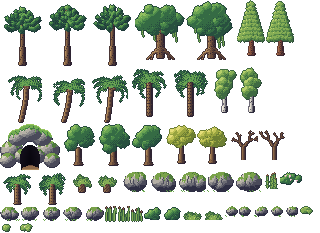
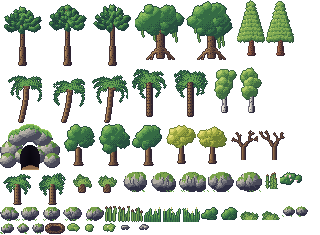
Island undergrowth, rocks and nests from the atlas; the old plant sprites go (handoff 3 D1, D2)
The test area's under-planting now runs island-wide, by terrace: tree ferns, cycads, magnolia,
bushes and fern clumps at the woods' edges (the highland gets cycads, horsetails and ferns, no
flowers); reeds and horsetails by the water; tall grass in drifts over the open lowland and
meadows (new atlas clumps, 3 variants, for stealth later); pebbles by the paths and at cliff tops;
boulders at the foot of the cliffs (the test area's rule could never fire: a tile right under a
cliff is always solid). Rocks in the shallows are atlas boulders with surf round them; the
volcano's ring is atlas boulders and pebbles; the nests are a woven twig atlas sprite. The eggs
stop wobbling under reduced motion. Removed: the runtime jtree, tree, tree2, tfern, palm, fern,
cycad, rock, boulder, stones, tallgrass and nest sprites, the helpers only they used, their baked
shadows (atlas sprites cast the soft shadow at runtime), and TEST/inTest.

diff --git a/js/world.js b/js/world.js
@@ -78,12 +78,9 @@
   function at(x, y) { return x < 0 || y < 0 || x >= MW || y >= MH ? DEEP : map[y][x]; }
   function land(t) { return t === GRASS || t === SAND || t === PATH || t === PAD || t === BRIDGE; }
   function wet(t) { return t === DEEP || t === SHAL || t === POND || t === RIVER; }
-  /* the art test area (handoff 3, D3): the west meadow where the river falls off the highland,
-     and the koi garden, drawn in the new style (art/palette.json, img/atlas/env.png from
-     tools/envart.py). the rest of the island converts once Ammaar approves the look */
-  var TEST = [[13, 18, 41, 47], [57, 39, 81, 57]];
-  function inTest(x, y) { for (var i = 0; i < TEST.length; i++) { var r = TEST[i]; if (x >= r[0] && x <= r[2] && y >= r[1] && y <= r[3]) return true; } return false; }
-  var ENV = {"mpuzzle0":[0,0,44,66,22,64],"mpuzzle1":[45,0,44,66,22,64],"mpuzzle2":[90,0,44,66,22,64],"fig0":[135,0,50,60,25,57],"fig1":[186,0,50,60,25,57],"redwood0":[237,0,28,56,14,54],"redwood1":[266,0,28,56,14,54],"palm0":[0,67,42,56,21,54],"palm1":[43,67,42,56,21,54],"palm2":[86,67,42,56,21,54],"tallfern0":[129,67,40,50,20,48],"tallfern1":[170,67,40,50,20,48],"birch0":[211,67,26,46,13,44],"birch1":[238,67,26,46,13,44],"cavemouth":[0,124,60,46,30,45],"oak0":[61,124,34,42,17,40],"oak1":[96,124,34,42,17,40],"oak2":[131,124,34,42,17,40],"ginkgo0":[166,124,30,40,15,38],"ginkgo1":[197,124,30,40,15,38],"baretree0":[228,124,30,36,15,35],"baretree1":[259,124,30,36,15,35],"tfern0":[0,171,34,34,17,32],"tfern1":[35,171,34,34,17,32],"cycad0":[70,171,24,22,12,20],"cycad1":[95,171,24,22,12,20],"rock2_0":[120,171,28,22,14,20],"rock2_1":[149,171,28,22,14,20],"rock2_2":[178,171,28,22,14,20],"rock2_3":[207,171,28,22,14,20],"rock2_4":[236,171,28,22,14,20],"horsetail0":[265,171,14,18,7,17],"magnolia0":[280,171,22,16,11,15],"rock1_0":[0,206,20,16,10,14],"rock1_1":[21,206,20,16,10,14],"rock1_2":[42,206,20,16,10,14],"rock1_3":[63,206,20,16,10,14],"rock1_4":[84,206,20,16,10,14],"reeds0":[105,206,12,16,6,15],"reeds1":[118,206,12,16,6,15],"reeds2":[131,206,12,16,6,15],"bush0":[144,206,18,14,9,13],"bush1":[163,206,18,14,9,13],"fern0":[182,206,20,14,10,13],"fern1":[203,206,20,14,10,13],"rock0_0":[224,206,14,12,7,10],"rock0_1":[239,206,14,12,7,10],"rock0_2":[254,206,14,12,7,10],"rock0_3":[269,206,14,12,7,10],"rock0_4":[284,206,14,12,7,10],"lilies0":[299,206,16,10,8,9],"lilies1":[0,223,16,10,8,9],"lilies2":[17,223,16,10,8,9]};
+  /* the art (handoff 3, D1): the master palette is art/palette.json (PAL below copies it); the
+     environment sprites are baked by tools/envart.py into img/atlas/env.png, their frames in ENV */
+  var ENV = {"mpuzzle0":[0,0,44,66,22,64],"mpuzzle1":[45,0,44,66,22,64],"mpuzzle2":[90,0,44,66,22,64],"fig0":[135,0,50,60,25,57],"fig1":[186,0,50,60,25,57],"redwood0":[237,0,28,56,14,54],"redwood1":[266,0,28,56,14,54],"palm0":[0,67,42,56,21,54],"palm1":[43,67,42,56,21,54],"palm2":[86,67,42,56,21,54],"tallfern0":[129,67,40,50,20,48],"tallfern1":[170,67,40,50,20,48],"birch0":[211,67,26,46,13,44],"birch1":[238,67,26,46,13,44],"cavemouth":[0,124,60,46,30,45],"oak0":[61,124,34,42,17,40],"oak1":[96,124,34,42,17,40],"oak2":[131,124,34,42,17,40],"ginkgo0":[166,124,30,40,15,38],"ginkgo1":[197,124,30,40,15,38],"baretree0":[228,124,30,36,15,35],"baretree1":[259,124,30,36,15,35],"tfern0":[0,171,34,34,17,32],"tfern1":[35,171,34,34,17,32],"cycad0":[70,171,24,22,12,20],"cycad1":[95,171,24,22,12,20],"rock2_0":[120,171,28,22,14,20],"rock2_1":[149,171,28,22,14,20],"rock2_2":[178,171,28,22,14,20],"rock2_3":[207,171,28,22,14,20],"rock2_4":[236,171,28,22,14,20],"horsetail0":[265,171,14,18,7,17],"magnolia0":[280,171,22,16,11,15],"rock1_0":[0,206,20,16,10,14],"rock1_1":[21,206,20,16,10,14],"rock1_2":[42,206,20,16,10,14],"rock1_3":[63,206,20,16,10,14],"rock1_4":[84,206,20,16,10,14],"reeds0":[105,206,12,16,6,15],"reeds1":[118,206,12,16,6,15],"reeds2":[131,206,12,16,6,15],"tallgrass0":[144,206,18,16,9,15],"tallgrass1":[163,206,18,16,9,15],"tallgrass2":[182,206,18,16,9,15],"bush0":[201,206,18,14,9,13],"bush1":[220,206,18,14,9,13],"fern0":[239,206,20,14,10,13],"fern1":[260,206,20,14,10,13],"rock0_0":[281,206,14,12,7,10],"rock0_1":[296,206,14,12,7,10],"rock0_2":[0,223,14,12,7,10],"rock0_3":[15,223,14,12,7,10],"rock0_4":[30,223,14,12,7,10],"nest0":[45,223,20,11,10,10],"lilies0":[66,223,16,10,8,9],"lilies1":[83,223,16,10,8,9],"lilies2":[100,223,16,10,8,9],"pebbles0":[117,223,16,8,8,7],"pebbles1":[134,223,16,8,8,7]};
   var PAL = { grass: ["#24463f", "#2e5d44", "#3d7a47", "#55944a", "#73ad51", "#98c65c"], dirt: ["#4a3634", "#6b4c3b", "#8e6a4a", "#b08c5e", "#cdaa74"],
               water: ["#1e3a66", "#23507c", "#2a6892", "#3582a8", "#48a0bc", "#6cbcca"], rim: ["#b4e4e0", "#e2f6ee"], rock: ["#2f2f44", "#4a4a5a", "#6a6a72", "#8e8c8c", "#b5b0a6", "#d6cfbd"],
               moss: ["#35553a", "#4f7a3c", "#79a24a"], wood: ["#2e2433", "#4a3635", "#6b4d3c", "#8e6a48", "#b08a5c"], flower: ["#f2e9e4", "#f5c84b", "#d98bb3", "#9d7ad2"],
@@ -297,14 +294,17 @@
   }
   // under the trees and along the edges: tree ferns, cycads, bushes, magnolia, fern clumps; horsetails
   // and reeds by the water; boulders at the foot of the cliffs and pebbles by the paths
-  function testUnder(x, y, edge, inF, h2) {
-    var wetNear = nearWater(x, y, 1), p = { tx: x, ty: y, flip: hash(y, x) < 0.5, ox: jit(x, y, 3), oy: jit(x, y, 7) / 3 };
+  function plantUnder(x, y, edge, inF, h2) {
+    var wetNear = nearWater(x, y, 1), tr = tier(x + 0.5, y + 0.5), p = { tx: x, ty: y, flip: hash(y, x) < 0.5, ox: jit(x, y, 3), oy: jit(x, y, 7) / 3 };
     var drift = fbm(x * 1.1 + 70, y * 1.1 + 20);                    // plants gather in drifts, not a scatter
-    if (lvl(x, y - 1) > lvl(x, y) && h2 < 0.45) { p.kind = epick("rock2_", 5, h2); p.oy = 2; solid[k(x, y)] = 1; }       // boulders under the cliffs
+    if (lvl(x, y - 2) > lvl(x, y) && lvl(x, y - 1) === lvl(x, y) && h2 < 0.22) { p.kind = epick("rock2_", 5, h2); solid[k(x, y)] = 1; }   // boulders at the foot of the cliffs
     else if (wetNear && h2 < 0.2) p.kind = drift > 0.12 ? epick("reeds", 3, h2) : h2 < 0.1 ? "e:horsetail0" : undefined;
-    else if ((edge || inF) && h2 < 0.34) p.kind = h2 < 0.08 ? epick("tfern", 2, h2) : h2 < 0.14 ? epick("cycad", 2, h2) : h2 < 0.2 ? "e:magnolia0" : h2 < 0.27 ? epick("bush", 2, h2) : epick("fern", 2, h2);
+    else if ((edge || inF) && h2 < 0.34) p.kind = tr === 2 ? (h2 < 0.1 ? epick("cycad", 2, h2) : h2 < 0.18 ? "e:horsetail0" : epick("fern", 2, h2))    // the highland: cooler, no flowers
+      : h2 < 0.08 ? epick("tfern", 2, h2) : h2 < 0.14 ? epick("cycad", 2, h2) : h2 < 0.2 && tr === 1 ? "e:magnolia0" : h2 < 0.27 ? epick("bush", 2, h2) : epick("fern", 2, h2);
+    else if (!inF && tr < 2 && fbm(x * 2.3 + 40, y * 2.3) > 0.25 && h2 < 0.36) { p.kind = epick("tallgrass", 3, h2); p.oy = jit(x, y, 6) / 2; }   // tall grass in drifts across the open ground
     else if (drift > 0.3 && h2 < 0.3) p.kind = epick("fern", 2, h2);
-    else if (near(x, y, 1, function (a2, b2) { return at(a2, b2) === PATH; }) && h2 < 0.12) p.kind = epick("rock0_", 5, h2);
+    else if (near(x, y, 1, function (a2, b2) { return at(a2, b2) === PATH; }) && h2 < 0.12) p.kind = h2 < 0.06 ? epick("pebbles", 2, h2) : epick("rock0_", 5, h2);
+    else if (rim(x, y + 1) && h2 < 0.2) { p.kind = epick("pebbles", 2, h2); p.oy = 0; }
     else if (h2 < 0.05) p.kind = epick("rock1_", 5, h2);
     if (p.kind) props.push(p);
   }
@@ -314,7 +314,7 @@
   for (y = 1; y < MH - 1; y++) for (x = 1; x < MW - 1; x++) {
     var t = map[y][x], h = hash(x, y);
     if (volcD(x * T + 8, y * T + 8) < VOLC.R + 6) {       // boulders ring the volcano's foot
-      if (t === GRASS && volcD(x * T + 8, y * T + 8) > VOLC.R * 0.93 && h < 0.28 && !busy(x, y) && !solid[k(x, y)]) props.push({ kind: h < 0.12 ? "boulder" : "stones", tx: x, ty: y, ox: jit(x, y, 1), oy: jit(x, y, 2) / 2 });
+      if (t === GRASS && volcD(x * T + 8, y * T + 8) > VOLC.R * 0.93 && h < 0.28 && !busy(x, y) && !solid[k(x, y)]) props.push({ kind: h < 0.06 ? epick("rock2_", 5, h) : h < 0.14 ? epick("rock1_", 5, h) : epick("pebbles", 2, h), tx: x, ty: y, flip: h < 0.1, ox: jit(x, y, 1), oy: jit(x, y, 2) / 2 });
       continue;
     }
     if (t === GRASS && !solid[k(x, y)]) {
@@ -328,15 +328,12 @@
       }
       var h2 = hash(x * 7, y * 13);
       if (busy(x, y)) continue;
-      if (inTest(x, y)) { testUnder(x, y, edge, inF, h2); continue; }
-      if ((edge || nearWater(x, y, 1)) && h2 < 0.3) props.push({ kind: h2 < 0.2 ? "fern" : "cycad", tx: x, ty: y, flip: hash(y, x) < 0.5, ox: jit(x, y, 3), oy: 0 });   // pi walks behind these
-      else if (!inF && fbm(x * 2.3 + 40, y * 2.3) > 0.25 && h2 < 0.36) props.push({ kind: "tallgrass", tx: x, ty: y, flip: h2 < 0.18, ox: jit(x, y, 4), oy: jit(x, y, 6) / 2 });
-      else if (rim(x, y + 1) && h2 < 0.25) props.push({ kind: "stones", tx: x, ty: y, ox: jit(x, y, 5), oy: 0 });
+      plantUnder(x, y, edge, inF, h2);
     } else if (t === SAND && h < 0.11 && !solid[k(x, y)]) {
       if (near(x, y, 1, function (a2, b2) { return busy(a2, b2) || solid[k(a2, b2)]; })) continue;
       props.push({ kind: epick("palm", 3, h), tx: x, ty: y, flip: h < 0.055, ox: jit(x, y, 1), oy: 0 }); solid[k(x, y)] = 1;
     } else if (t === SHAL && h < 0.02 && Math.abs(x - DOCKX) > 3) {
-      props.push({ kind: "rock", tx: x, ty: y });
+      props.push({ kind: epick("rock1_", 5, h * 50), tx: x, ty: y, flip: h < 0.01, sea: true });      // rocks in the shallows, the surf round them
     }
   }
   // the cave's surroundings (ref-6): the hillside is solid, two bare trees and some stones beside it
@@ -348,15 +345,15 @@
       if (walkable0(q[1], q[2])) { props.push({ kind: q[0], tx: q[1], ty: q[2], flip: hash(q[1], q[2]) < 0.5, ox: 0, oy: 0 }); if (/tree/.test(q[0])) solid[k(q[1], q[2])] = 1; }
     });
   })();
-  // lily pads on the test area's water: a few clusters on the pond, clear of the middle
+  // lily pads: a few clusters on the pond, clear of the middle
   for (y = 0; y < MH; y++) for (x = 0; x < MW; x++) {
-    if (!inTest(x, y) || map[y][x] !== POND) continue;
+    if (map[y][x] !== POND) continue;
     var pf0 = pondF(x + 0.5, y + 0.5);
     if (pf0 > 0.35 && pf0 < 0.85 && fbm(x * 1.7 + 11, y * 1.7) > 0.05 && hash(x * 5, y * 11) < 0.5) props.push({ kind: epick("lilies", 3, hash(y, x)), tx: x, ty: y, flip: hash(x, y) < 0.5, ox: jit(x, y, 2), oy: 0, flat: true });
   }
   // nests in the meadow, each with a clutch of speckled eggs
   var nests = [[57, 55], [63, 57], [66, 54], [15, 39]].filter(function (n) { return walkable0(n[0], n[1]); }).map(function (n) {
-    solid[k(n[0], n[1])] = 1; var p = { kind: "nest", tx: n[0], ty: n[1], eggs: 2 + ((hash(n[0], n[1]) * 3) | 0) }; props.push(p); return p;
+    solid[k(n[0], n[1])] = 1; var p = { kind: "e:nest0", tx: n[0], ty: n[1], eggs: 2 + ((hash(n[0], n[1]) * 3) | 0) }; props.push(p); return p;
   });
   function walkable0(x, y) { return land(at(x, y)) && at(x, y) !== PATH && !solid[k(x, y)]; }
   [[43, 59], [50, 60], [43, 62], [50, 63], [46, 33], [51, 33], [53, 62], [26, 40]].forEach(function (l) {
@@ -379,7 +376,6 @@
 
   /* ════════ sprites (drawn once into little canvases) ════════ */
   function sprite(w, h, fn) { var c = mkCanvas(); c.width = w; c.height = h; var g = c.getContext("2d"); fn(function (x, y, w, h, col) { g.fillStyle = col; g.fillRect(x, y, w, h); }, g); return c; }
-  function blob(r, cx, cy, rad, col) { for (var j = -rad; j <= rad; j++) { var w = Math.round(Math.sqrt(rad * rad - j * j)); r(cx - w, cy + j, w * 2, 1, col); } }
   var BAYER = [0, 8, 2, 10, 12, 4, 14, 6, 3, 11, 1, 9, 15, 7, 13, 5];
   // pick one of a few tones for a shade in [0,1], ordered-dithered so the bands blend like 16-bit art
   function tone(v, tones, x, y) {
@@ -387,46 +383,6 @@
     return (f - i) > (BAYER[(y & 3) * 4 + (x & 3)] + 0.5) / 16 ? tones[Math.min(tones.length - 1, i + 1)] : tones[i];
   }
   var BARK = ["#3a2616", "#553820", "#6e4a2a", "#8a6038"];
-  function trunk(g, x, y, w, h, flare) {
-    for (var yy = 0; yy < h; yy++) {
-      var ww = w + Math.max(0, yy - h + flare) * 1.3;
-      for (var xx = -ww / 2; xx < ww / 2; xx++) {
-        var v = 0.62 - (xx / ww) * 0.8 + (hash(Math.round(xx) + 90, (yy / 2) | 0) - 0.5) * 0.3;
-        g.fillStyle = tone(v, BARK, Math.round(x + xx), y + yy); g.fillRect(Math.round(x + xx), y + yy, 1, 1);
-      }
-    }
-  }
-  // a canopy is a union of circles; each pixel is lit from the upper left by its own blob's normal
-  function canopy(g, blobs, tones) {
-    var W = 64, H = 64;
-    for (var y = 0; y < H; y++) for (var x = 0; x < W; x++) {
-      var best = null, depth = 0;
-      blobs.forEach(function (b) { var d = b[2] - Math.hypot(x + 0.5 - b[0], y + 0.5 - b[1]); if (d > depth) { depth = d; best = b; } });
-      if (!best) continue;
-      var nx = (x - best[0]) / best[2], ny = (y - best[1]) / best[2];
-      var v = 0.62 - (nx * 0.55 + ny * 0.75) * 0.42 + (hash(x * 3, y * 5) - 0.5) * 0.22 - (depth < 1.5 ? 0.12 : 0);
-      // leafy clumps: every few pixels a darker notch so it doesn't read as a smooth ball
-      if (hash((x / 3) | 0, (y / 3) | 0) < 0.18 && depth > 2) v -= 0.18;
-      g.fillStyle = tone(v, tones, x, y); g.fillRect(x, y, 1, 1);
-    }
-  }
-  // a frond: a curved stem with leaflets hanging off both sides, for palms, tree ferns and ferns
-  function frond(g, x0, y0, ang, len, droop, tones, leaf) {
-    var px = x0, py = y0, dx = Math.cos(ang), dy = Math.sin(ang);
-    for (var i = 0; i < len; i++) {
-      var u = i / len;
-      px += dx; py += dy + droop * u * 1.6;
-      var sh = 0.8 - u * 0.45;
-      g.fillStyle = tone(sh, tones, px | 0, py | 0); g.fillRect(Math.round(px), Math.round(py), 1, 1);
-      if (!leaf || i < 1) continue;
-      var ll = Math.round(leaf * Math.sin(Math.min(1, u * 1.3) * Math.PI) + 0.6);
-      for (var j = 1; j <= ll; j++) {
-        g.fillStyle = tone(sh - 0.08 * j, tones, (px | 0) + j, (py | 0) + j);
-        g.fillRect(Math.round(px - dy * j * 0.7 - 0.3 * j * Math.sign(dx)), Math.round(py + j * 0.8), 1, 1);
-        g.fillRect(Math.round(px + dy * j * 0.7 + 0.2 * j * Math.sign(dx)), Math.round(py + j * 0.55), 1, 1);
-      }
-    }
-  }
   // a 1px outline around everything opaque: the single biggest readability win in pixel art
   function outline(src, col) {
     var w0 = src.width, h0 = src.height, c = mkCanvas(); c.width = w0 + 2; c.height = h0 + 2;
@@ -439,10 +395,6 @@
     g.globalCompositeOperation = "source-over";
     return c;
   }
-  var LEAF = ["#0f2f1a", "#1a4a24", "#28662e", "#3f8a3a", "#62ad50"];
-  var LEAF2 = ["#12301f", "#1d4a2c", "#2d6a38", "#468c46", "#6aae5c"];
-  var FROND = ["#16452a", "#23663a", "#3a8a44", "#63b056", "#8fd06a"];
-  var FERN = ["#12382e", "#1d5440", "#2c7250", "#4a9464", "#74b882"];
   // 3x5 pixel letters for signs
   var GLYPH = { P: ["111", "101", "111", "100", "100"], I: ["111", "010", "010", "010", "111"], S: ["111", "100", "111", "001", "111"], L: ["100", "100", "100", "100", "111"],
                 A: ["010", "101", "111", "101", "101"], N: ["110", "101", "101", "101", "101"], D: ["110", "101", "101", "101", "110"], "'": ["1", "1", "0", "0", "0"], " ": ["00", "00", "00", "00", "00"] };
@@ -450,68 +402,7 @@
   function textW(str) { return str.split("").reduce(function (s, ch) { return s + GLYPH[ch][0].length + 1; }, -1); }
 
   var SPR = {
-    // a giant buttressed jungle tree, hung with vines
-    jtree: sprite(50, 62, function (r, g) {
-      trunk(g, 25, 30, 9, 31, 8);
-      canopy(g, [[25, 22, 16], [11, 26, 10], [39, 26, 10], [17, 12, 11], [33, 11, 11], [25, 32, 9]], LEAF);
-      [[9, 31, 16], [16, 35, 12], [34, 34, 14], [41, 31, 10], [27, 37, 8]].forEach(function (v) {
-        for (var i = 0; i < v[2]; i++) { r(v[0] + Math.round(Math.sin(i * 0.45) * 0.8), v[1] + i, 1, 1, "#2a5e26"); if (i % 3 === 1) r(v[0] + 1, v[1] + i, 1, 1, "#5aa04a"); }
-        r(v[0] - 1, v[1] + v[2], 3, 1, "#3f8a3a");
-      });
-    }),
-    tree: sprite(34, 44, function (r, g) {
-      trunk(g, 17, 26, 5, 17, 4);
-      canopy(g, [[17, 17, 13], [10, 13, 8], [24, 12, 8], [17, 8, 8]], LEAF);
-    }),
-    tree2: sprite(34, 46, function (r, g) {
-      trunk(g, 17, 28, 5, 17, 4);
-      canopy(g, [[17, 22, 11], [17, 12, 11], [9, 17, 7], [25, 17, 7]], LEAF2);
-      [[21, 25], [10, 19], [23, 13], [14, 9], [18, 29]].forEach(function (p) { r(p[0], p[1], 2, 2, "#e0782f"); r(p[0], p[1], 1, 1, "#ffb060"); });   // fruit
-    }),
-    // a tree fern: a thin shaggy trunk and a crown of arching fronds
-    tfern: sprite(40, 44, function (r, g) {
-      for (var yy = 14; yy < 43; yy++) { var cx = 20 + Math.round(Math.sin(yy / 9) * 1.2); r(cx - 1, yy, 3, 1, yy % 3 ? "#5a3a1e" : "#7a5230"); if (yy % 4 === 0) r(cx - 2 + (yy % 8 ? 0 : 4), yy, 1, 1, "#3f2a14"); }
-      [[-2.9, 16, 0.9], [-2.4, 15, 0.8], [-1.9, 12, 0.5], [-1.3, 12, 0.5], [-0.7, 15, 0.8], [-0.25, 16, 0.9], [-1.6, 9, 0.2]].forEach(function (f) { frond(g, 20, 14, f[0], f[1], f[2], FROND, 3); });
-    }),
-    palm: sprite(40, 50, function (r, g) {
-      for (var i = 0; i < 32; i++) {                               // a curved, ringed trunk
-        var px = 18 + Math.round(Math.sin(i / 11) * 5), band = (i >> 1) % 2;
-        r(px, 48 - i, 4, 1, band ? "#8a5a33" : "#a8744a"); r(px + 3, 48 - i, 1, 1, "#6b4424"); if (!band) r(px, 48 - i, 1, 1, "#c09062");
-      }
-      var tx = 18 + Math.round(Math.sin(31 / 11) * 5) + 2, ty = 17;
-      [[-3.0, 17, 1.0], [-2.5, 15, 0.9], [-1.9, 11, 0.5], [-1.2, 11, 0.5], [-0.6, 15, 0.9], [-0.1, 17, 1.0], [-1.57, 8, 0.1]].forEach(function (f) { frond(g, tx, ty, f[0], f[1], f[2], FROND, 3); });
-      r(tx - 2, ty, 3, 3, "#5a3a1e"); r(tx + 1, ty + 1, 3, 3, "#6b4424"); r(tx - 1, ty + 2, 1, 1, "#8a6038");      // coconuts
-    }),
-    fern: sprite(20, 14, function (r, g) {
-      [[-2.7, 8, 0.7], [-2.2, 9, 0.5], [-1.57, 8, 0.2], [-0.95, 9, 0.5], [-0.45, 8, 0.7]].forEach(function (f) { frond(g, 10, 12, f[0], f[1], f[2], FERN, 2); });
-    }),
-    cycad: sprite(22, 18, function (r, g) {
-      r(9, 12, 4, 6, "#6b4a2a"); r(9, 12, 1, 6, "#8a6038"); r(10, 13, 1, 1, "#3f2a14"); r(11, 15, 1, 1, "#3f2a14");
-      [[-2.9, 9, 0.2], [-2.4, 10, 0.1], [-1.9, 9, 0], [-1.25, 9, 0], [-0.75, 10, 0.1], [-0.25, 9, 0.2]].forEach(function (f) { frond(g, 11, 12, f[0], f[1], f[2], LEAF2, 1); });
-      r(10, 10, 3, 3, "#d9832f"); r(11, 10, 1, 1, "#f0b060");
-    }),
     lamp: sprite(7, 18, function (r) { r(3, 5, 1, 13, "#2b2b2b"); r(2, 16, 3, 2, "#2b2b2b"); r(1, 1, 5, 4, "#3a3a3a"); r(2, 2, 3, 2, "#ffe9b0"); r(3, 0, 1, 1, "#3a3a3a"); }),
-    nest: sprite(18, 9, function (r) {
-      for (var i = 0; i < 40; i++) { var a = i / 40 * 6.283, rr = 7 + (i % 3) * 0.6; r(Math.round(9 + Math.cos(a) * rr), Math.round(5 + Math.sin(a) * rr * 0.45), 2, 1, ["#6e4a2a", "#8a6038", "#a8804e"][i % 3]); }
-      r(4, 5, 10, 2, "#4a3018");
-    }),
-    rock: sprite(16, 12, function (r) { blob(r, 8, 7, 5, "#7c858c"); blob(r, 7, 6, 3, "#9aa3aa"); r(5, 4, 2, 1, "#c3cad0"); }),
-    // a mossy boulder: rock lit from the upper left, moss on its crown
-    boulder: sprite(22, 16, function (r, g) {
-      canopy(g, [[11, 9, 7], [6, 10, 5], [16, 11, 5]], ["#3e434a", "#595f68", "#767d86", "#979ea6", "#b6bcc2"]);
-      var px = g.getImageData(0, 2, 22, 8).data;                       // one read, not one per pixel
-      for (var i = 0; i < 22; i++) for (var j = 0; j < 8; j++) if (hash(i, j + 40) < 0.55 - j * 0.07) { if (px[(j * 22 + i) * 4 + 3] > 0 && j < 5) { g.fillStyle = tone(0.6 - j * 0.1, ["#2c5a2a", "#3f7a36", "#5a9a44"], i, j); g.fillRect(i, j + 2, 1, 1); } }
-    }),
-    stones: sprite(14, 7, function (r) { [[2, 3, "#6d737a"], [7, 2, "#858b92"], [10, 4, "#6d737a"], [5, 5, "#9aa0a6"]].forEach(function (q) { r(q[0], q[1], 3, 2, q[2]); r(q[0], q[1], 2, 1, "#b0b6bc"); r(q[0], q[1] + 2, 3, 1, "#3e434a"); }); }),
-    // a clump of tall grass: blades of three greens, a few seed heads
-    tallgrass: sprite(16, 14, function (r) {
-      // separate blades with gaps between them, each curving a little, darker at the root
-      for (var i = 0; i < 9; i++) {
-        var bx = 1.5 + i * 1.6 + (hash(i, 3) - 0.5), hgt = 5 + ((hash(i, 7) * 7) | 0), lean = (hash(i, 9) - 0.5) * 4;
-        for (var j = 0; j < hgt; j++) { var q = j / hgt; r(Math.round(bx + lean * q * q), 13 - j, 1, 1, q > 0.75 ? "#9ad874" : q > 0.4 ? "#5fae4a" : "#2f6a2a"); }
-        if (i % 3 === 1) { r(Math.round(bx + lean), 13 - hgt - 1, 1, 2, "#e0cc86"); r(Math.round(bx + lean), 13 - hgt - 1, 1, 1, "#f4e6a8"); }
-      }
-    }),
     crates: sprite(15, 16, function (r) {
       function crate(x, y) { r(x, y, 10, 8, "#a0703e"); r(x, y, 10, 1, "#c89458"); r(x, y + 7, 10, 1, "#5a3a1e"); r(x, y, 1, 8, "#7a5230"); r(x + 9, y, 1, 8, "#5a3a1e"); r(x + 1, y + 3, 8, 1, "#7a5230"); r(x + 4, y + 1, 1, 6, "#7a5230"); }
       crate(0, 8); crate(5, 1);
@@ -630,7 +521,7 @@
   };
 
   Object.keys(SPR).forEach(function (k) {
-    SPR[k] = outline(SPR[k], /tree|fern|palm|cycad/.test(k) ? "rgba(10,28,16,.9)" : k === "cave" || k === "tallgrass" ? "rgba(0,0,0,0)" : "rgba(18,18,20,.88)");
+    SPR[k] = outline(SPR[k], k === "cave" ? "rgba(0,0,0,0)" : "rgba(18,18,20,.88)");
   });
 
   /* ════════ ground, drawn once (handoff 3, D1) ════════
@@ -1004,16 +895,14 @@
       if (fhc >= 4) face(px, py + 1, fhc, 41);
     }
 
-    // shadows, baked into the ground: the old trees cast soft dithered shadows down and to the right
+    // the buildings' shadows, baked into the ground: soft and dithered, down and to the right
     // (the light comes from the upper left, like the sprites)
-    var SH = { jtree: [22, 9, 10, 4], tree: [15, 7, 6, 3], tree2: [15, 7, 6, 3], tfern: [11, 5, 5, 2], palm: [12, 5, 7, 2], boulder: [10, 5, 3, 2] };
     function castShadow(cx, cy, rx, ry, a) {
       for (var yy3 = -ry; yy3 <= ry; yy3++) for (var xx3 = -rx; xx3 <= rx; xx3++) {
         var d3 = (xx3 * xx3) / (rx * rx) + (yy3 * yy3) / (ry * ry);
         if (d3 <= 1 && (BAYER[((cy + yy3) & 3) * 4 + ((cx + xx3) & 3)] + 0.5) / 16 < (1 - d3) * 1.8) { g.fillStyle = "rgba(26,20,58," + a + ")"; g.fillRect(cx + xx3, cy + yy3, 1, 1); }
       }
     }
-    props.forEach(function (p2) { var sh = SH[p2.kind]; if (sh) castShadow(p2.tx * T + 8 + (p2.ox || 0) + sh[2], p2.ty * T + 13 + (p2.oy || 0) + sh[3], sh[0], sh[1], 0.3); });
     BUILDINGS.forEach(function (bd) { castShadow(Math.round((bd.x0 + bd.w / 2) * T + 10), (bd.y0 + bd.h) * T + 2, bd.w * 9, 6, 0.32); });
   })();
   groundMs = performance.now() - groundMs;
@@ -2036,7 +1925,7 @@
         if (stepBot(b, dt, 14)) { b.wait = 8 + Math.random() * 6; b.work = b.wait; b.face = 1; }
       } else if (b.kind === "gardener") {
         if (!b.path) {
-          var near2 = props.filter(function (p2) { return (p2.kind === "fern" || p2.kind === "cycad" || p2.kind === "tallgrass") && Math.abs(p2.tx - 46) < 12 && Math.abs(p2.ty - 58) < 8; });
+          var near2 = props.filter(function (p2) { return /^e:(fern|cycad|bush|magnolia|tallgrass)/.test(p2.kind) && Math.abs(p2.tx - 46) < 12 && Math.abs(p2.ty - 58) < 8; });
           var pick = near2[(Math.random() * near2.length) | 0];
           if (pick) botGo(b, [pick.tx, pick.ty + 1]);
           if (!b.path) { b.wait = 2; return; }
@@ -3839,7 +3728,7 @@
 
   /* ════════ footfalls: a sound per step, dust on dry ground, prints in the sand, ferns that rustle ════════ */
   var puffs = [], prints = [], rustling = [];
-  var ferns = {}; props.forEach(function (p) { if (p.kind === "fern" || p.kind === "cycad" || p.kind === "tallgrass" || /^e:(fern|cycad|horsetail|bush|magnolia|reeds)/.test(p.kind)) ferns[k(p.tx, p.ty)] = p; });
+  var ferns = {}; props.forEach(function (p) { if (/^e:(fern|cycad|horsetail|bush|magnolia|reeds|tallgrass)/.test(p.kind)) ferns[k(p.tx, p.ty)] = p; });
 
   /* ════════ buildings and the waterfall ════════ */
   function drawBuilding(bd) {
@@ -4083,25 +3972,31 @@
         if (envK) {
           bx += p.ox || 0; by += p.oy || 0;
           if (p.flat) { ctx.drawImage(s, Math.round(bx - s.width / 2), Math.round(by - s.height + 4 + (REDUCED ? 0 : Math.sin(t * 1.3 + p.tx) * 0.5))); return; }
-          softShadow(bx + 1, by + 2, Math.max(8, s.width * (TALL.test(p.kind) ? (/palm|mpuzzle/.test(p.kind) ? 0.45 : 0.72) : 0.85)));
-        }
-        if (p.kind === "nest") {
-          ctx.drawImage(s, bx - 10, by - 10);
-          for (var e = 0; e < p.eggs; e++) {                 // speckled teal eggs; one of them wobbles
-            var ex = bx - 5 + e * 4, wob = e === 1 && Math.sin(t * 9) > 0.6 ? 1 : 0;
-            ctx.fillStyle = "#1a2a26"; ctx.fillRect(ex - 1 + wob, by - 11, 5, 6); ctx.fillStyle = "#7cc4b2"; ctx.fillRect(ex + wob, by - 10, 3, 5); ctx.fillStyle = "#b4e6d8"; ctx.fillRect(ex + wob, by - 10, 1, 2); ctx.fillStyle = "#3f7a6c"; ctx.fillRect(ex + 2 + wob, by - 8, 1, 1); ctx.fillRect(ex + 1 + wob, by - 7, 1, 1);
+          if (p.sea) {                                            // a rock in the shallows: it seems to bob as the surf rings it
+            var bob = REDUCED ? 0 : Math.round(Math.sin(t + p.tx) * 0.5), rw = s.width / 2 + 1;
+            ctx.drawImage(s, Math.round(bx - s.width / 2), by - s.height + 4 + bob);
+            ctx.fillStyle = "rgba(226,246,238,.7)";
+            for (var fa = 0; fa < 10; fa++) { var an = fa / 10 * 6.283 + (REDUCED ? 0 : t * 0.6); ctx.fillRect(Math.round(bx + Math.cos(an) * rw), Math.round(by + 2 + Math.sin(an) * 2.5), 2, 1); }
+            return;
           }
-          return;
+          if (p.eggs !== undefined) {                             // the nest, with its clutch of speckled teal eggs; one of them wobbles
+            softShadow(bx + 1, by + 1, 18); ctx.drawImage(s, bx - 10, by - 10);
+            for (var e = 0; e < p.eggs; e++) {
+              var ex = bx - 5 + e * 4, wob = e === 1 && !REDUCED && Math.sin(t * 9) > 0.6 ? 1 : 0;
+              ctx.fillStyle = "#1a2a26"; ctx.fillRect(ex - 1 + wob, by - 11, 5, 6); ctx.fillStyle = "#7cc4b2"; ctx.fillRect(ex + wob, by - 10, 3, 5); ctx.fillStyle = "#b4e6d8"; ctx.fillRect(ex + wob, by - 10, 1, 2); ctx.fillStyle = "#3f7a6c"; ctx.fillRect(ex + 2 + wob, by - 8, 1, 1); ctx.fillRect(ex + 1 + wob, by - 7, 1, 1);
+            }
+            return;
+          }
+          softShadow(bx + 1, by + 2, Math.max(8, s.width * (TALL.test(p.kind) ? (/palm|mpuzzle/.test(p.kind) ? 0.45 : 0.72) : 0.85)));
         }
         bx += p.ox || 0; by += p.oy || 0;
         if (p.kind === "lamp" || p.kind === "crates") shadow(bx, by, p.kind === "lamp" ? 6 : 14);
-        if (p.kind === "rock") { ctx.drawImage(s, bx - 9, by - 11 + Math.round(Math.sin(t + p.tx) * 0.5)); return; }
-        var sway = /^(palm|tfern)$|^e:(palm|tallfern)/.test(p.kind) && !REDUCED ? Math.round(Math.sin(t * 1.2 + p.tx) * 0.6) : 0;
-        if ((p.kind === "tallgrass" || /^e:(fern|reeds|horsetail|tfern|bush)/.test(p.kind)) && !REDUCED) sway = Math.round(Math.sin(t * 1.8 + p.tx * 0.7 + p.ty * 0.3) * 0.8);   // wind rolls across the field
+        var sway = /^e:(palm|tallfern)/.test(p.kind) && !REDUCED ? Math.round(Math.sin(t * 1.2 + p.tx) * 0.6) : 0;
+        if (/^e:(fern|reeds|horsetail|tfern|bush|tallgrass)/.test(p.kind) && !REDUCED) sway = Math.round(Math.sin(t * 1.8 + p.tx * 0.7 + p.ty * 0.3) * 0.8);   // wind rolls across the field
         if (p.rustle) sway = Math.round(Math.sin(t * 34) * p.rustle * 1.6);
-        if (REAL === "future" && (TALL.test(p.kind) || /^(tree|tree2|jtree|tfern|palm)$/.test(p.kind))) { var tw = towers()[(hash(p.tx, p.ty) * 6) | 0]; ctx.drawImage(tw, bx - tw.width / 2, by - tw.height + 2); light(bx, by - tw.height * 0.6, 18, hash(p.ty, p.tx) < 0.5 ? "255,79,160" : "41,216,255", 0.5); return; }
+        if (REAL === "future" && TALL.test(p.kind)) { var tw = towers()[(hash(p.tx, p.ty) * 6) | 0]; ctx.drawImage(tw, bx - tw.width / 2, by - tw.height + 2); light(bx, by - tw.height * 0.6, 18, hash(p.ty, p.tx) < 0.5 ? "255,79,160" : "41,216,255", 0.5); return; }
         s = skin(s);
-        var behind = (TALL.test(p.kind) || /^(tree|tree2|jtree|tfern|palm|mast|tank)$/.test(p.kind)) && pi.y < by - 3 && pi.y > by - s.height + 6 && Math.abs(pi.x - bx) < s.width / 2 - 2;
+        var behind = (TALL.test(p.kind) || p.kind === "mast" || p.kind === "tank") && pi.y < by - 3 && pi.y > by - s.height + 6 && Math.abs(pi.x - bx) < s.width / 2 - 2;
         if (behind) ctx.globalAlpha = 0.42;                      // pi walks behind it: see through
         if (p.flip) { ctx.save(); ctx.translate(bx * 2, 0); ctx.scale(-1, 1); }
         ctx.drawImage(s, bx - s.width / 2 + sway, by - s.height + 2);

diff --git a/tools/envart.py b/tools/envart.py
@@ -11,6 +11,7 @@ master palette in art/palette.json:
   shrubs     a round bush, a fern clump, the magnolia
   rocks      5 variants in each of 3 sizes: faceted, cracked, moss on top, grass at the base
   water      reeds and lily pads, in clusters
+  ground     tall grass clumps, pebbles, a twig nest
 The shadows aren't baked in: the game draws one soft cool ellipse per size under each sprite.
 
   python3 tools/envart.py            writes the atlas
@@ -383,6 +384,43 @@ def rock(size, seed):
     return sp, (sp.w // 2, base + 1)
 
 
+def tallgrass(seed):
+    """a clump of tall grass: separate blades with gaps, each curving a little, dark at the root
+    and lit at the tip, a few seed heads. pi can hide in it later (stealth)"""
+    rng = random.Random(seed); sp = Sprite(18, 16)
+    for i in range(9):
+        bx = 1.5 + i * 1.7 + rng.uniform(-0.5, 0.5); hgt = 6 + rng.randint(0, 7); lean = rng.uniform(-2, 2)
+        for j in range(hgt):
+            q = j / hgt
+            sp.put(int(round(bx + lean * q * q)), 15 - j, R["grass"][4 if q > 0.7 else 3 if q > 0.35 else 2], "grass")
+        if i % 3 == seed % 3:
+            x = int(round(bx + lean)); sp.put(x, 15 - hgt, R["dry"][4], "dry"); sp.put(x, 14 - hgt, R["dry"][3], "dry")
+    sp.outline(skip=("dry",)); return sp, (9, 15)
+
+
+def pebbles(seed):
+    """a few flat stones, lit on top, for paths and slopes"""
+    rng = random.Random(seed); sp = Sprite(16, 8)
+    for i in range(3 + seed % 2):
+        cx, cy, rx, ry = rng.uniform(3, 13), rng.uniform(3, 5), rng.uniform(1.6, 2.6), rng.uniform(1.2, 1.7)
+        rockblob(sp, cx, cy, rx, ry, rng, moss=False)
+    sp.outline(); return sp, (8, 7)
+
+
+def nest(seed):
+    """a ring of woven twigs; the game lays the eggs in it"""
+    rng = random.Random(seed); sp = Sprite(20, 11)
+    for y in range(11):
+        for x in range(20):
+            u, v = (x + 0.5 - 10) / 9.5, (y + 0.5 - 5.5) / 5
+            d = u * u + v * v
+            if d > 1: continue
+            if d < 0.35: sp.put(x, y, R["wood"][0], "wood"); continue           # the hollow
+            k = (x * 3 + y * 5 + int(rng.random() * 3)) % 4
+            sp.put(x, y, R["wood"][[4, 3, 2, 1][k] if v < 0.2 else [2, 1, 1, 0][k]], "wood")
+    sp.outline(); return sp, (10, 10)
+
+
 def reeds(seed):
     rng = random.Random(seed); sp = Sprite(12, 16)
     for s in range(6):
@@ -495,6 +533,9 @@ def all_sprites():
     for size in range(3):
         for v in range(5): s["rock%d_%d" % (size, v)] = rock(size, v)
     for i in range(3): s["reeds%d" % i] = reeds(120 + i)
+    for i in range(3): s["tallgrass%d" % i] = tallgrass(200 + i)
+    for i in range(2): s["pebbles%d" % i] = pebbles(210 + i)
+    s["nest0"] = nest(220)
     for i in range(3): s["lilies%d" % i] = lilies(130 + i)
     s["cavemouth"] = cavemouth(140)
     for i in range(2): s["baretree%d" % i] = baretree(150 + i)
